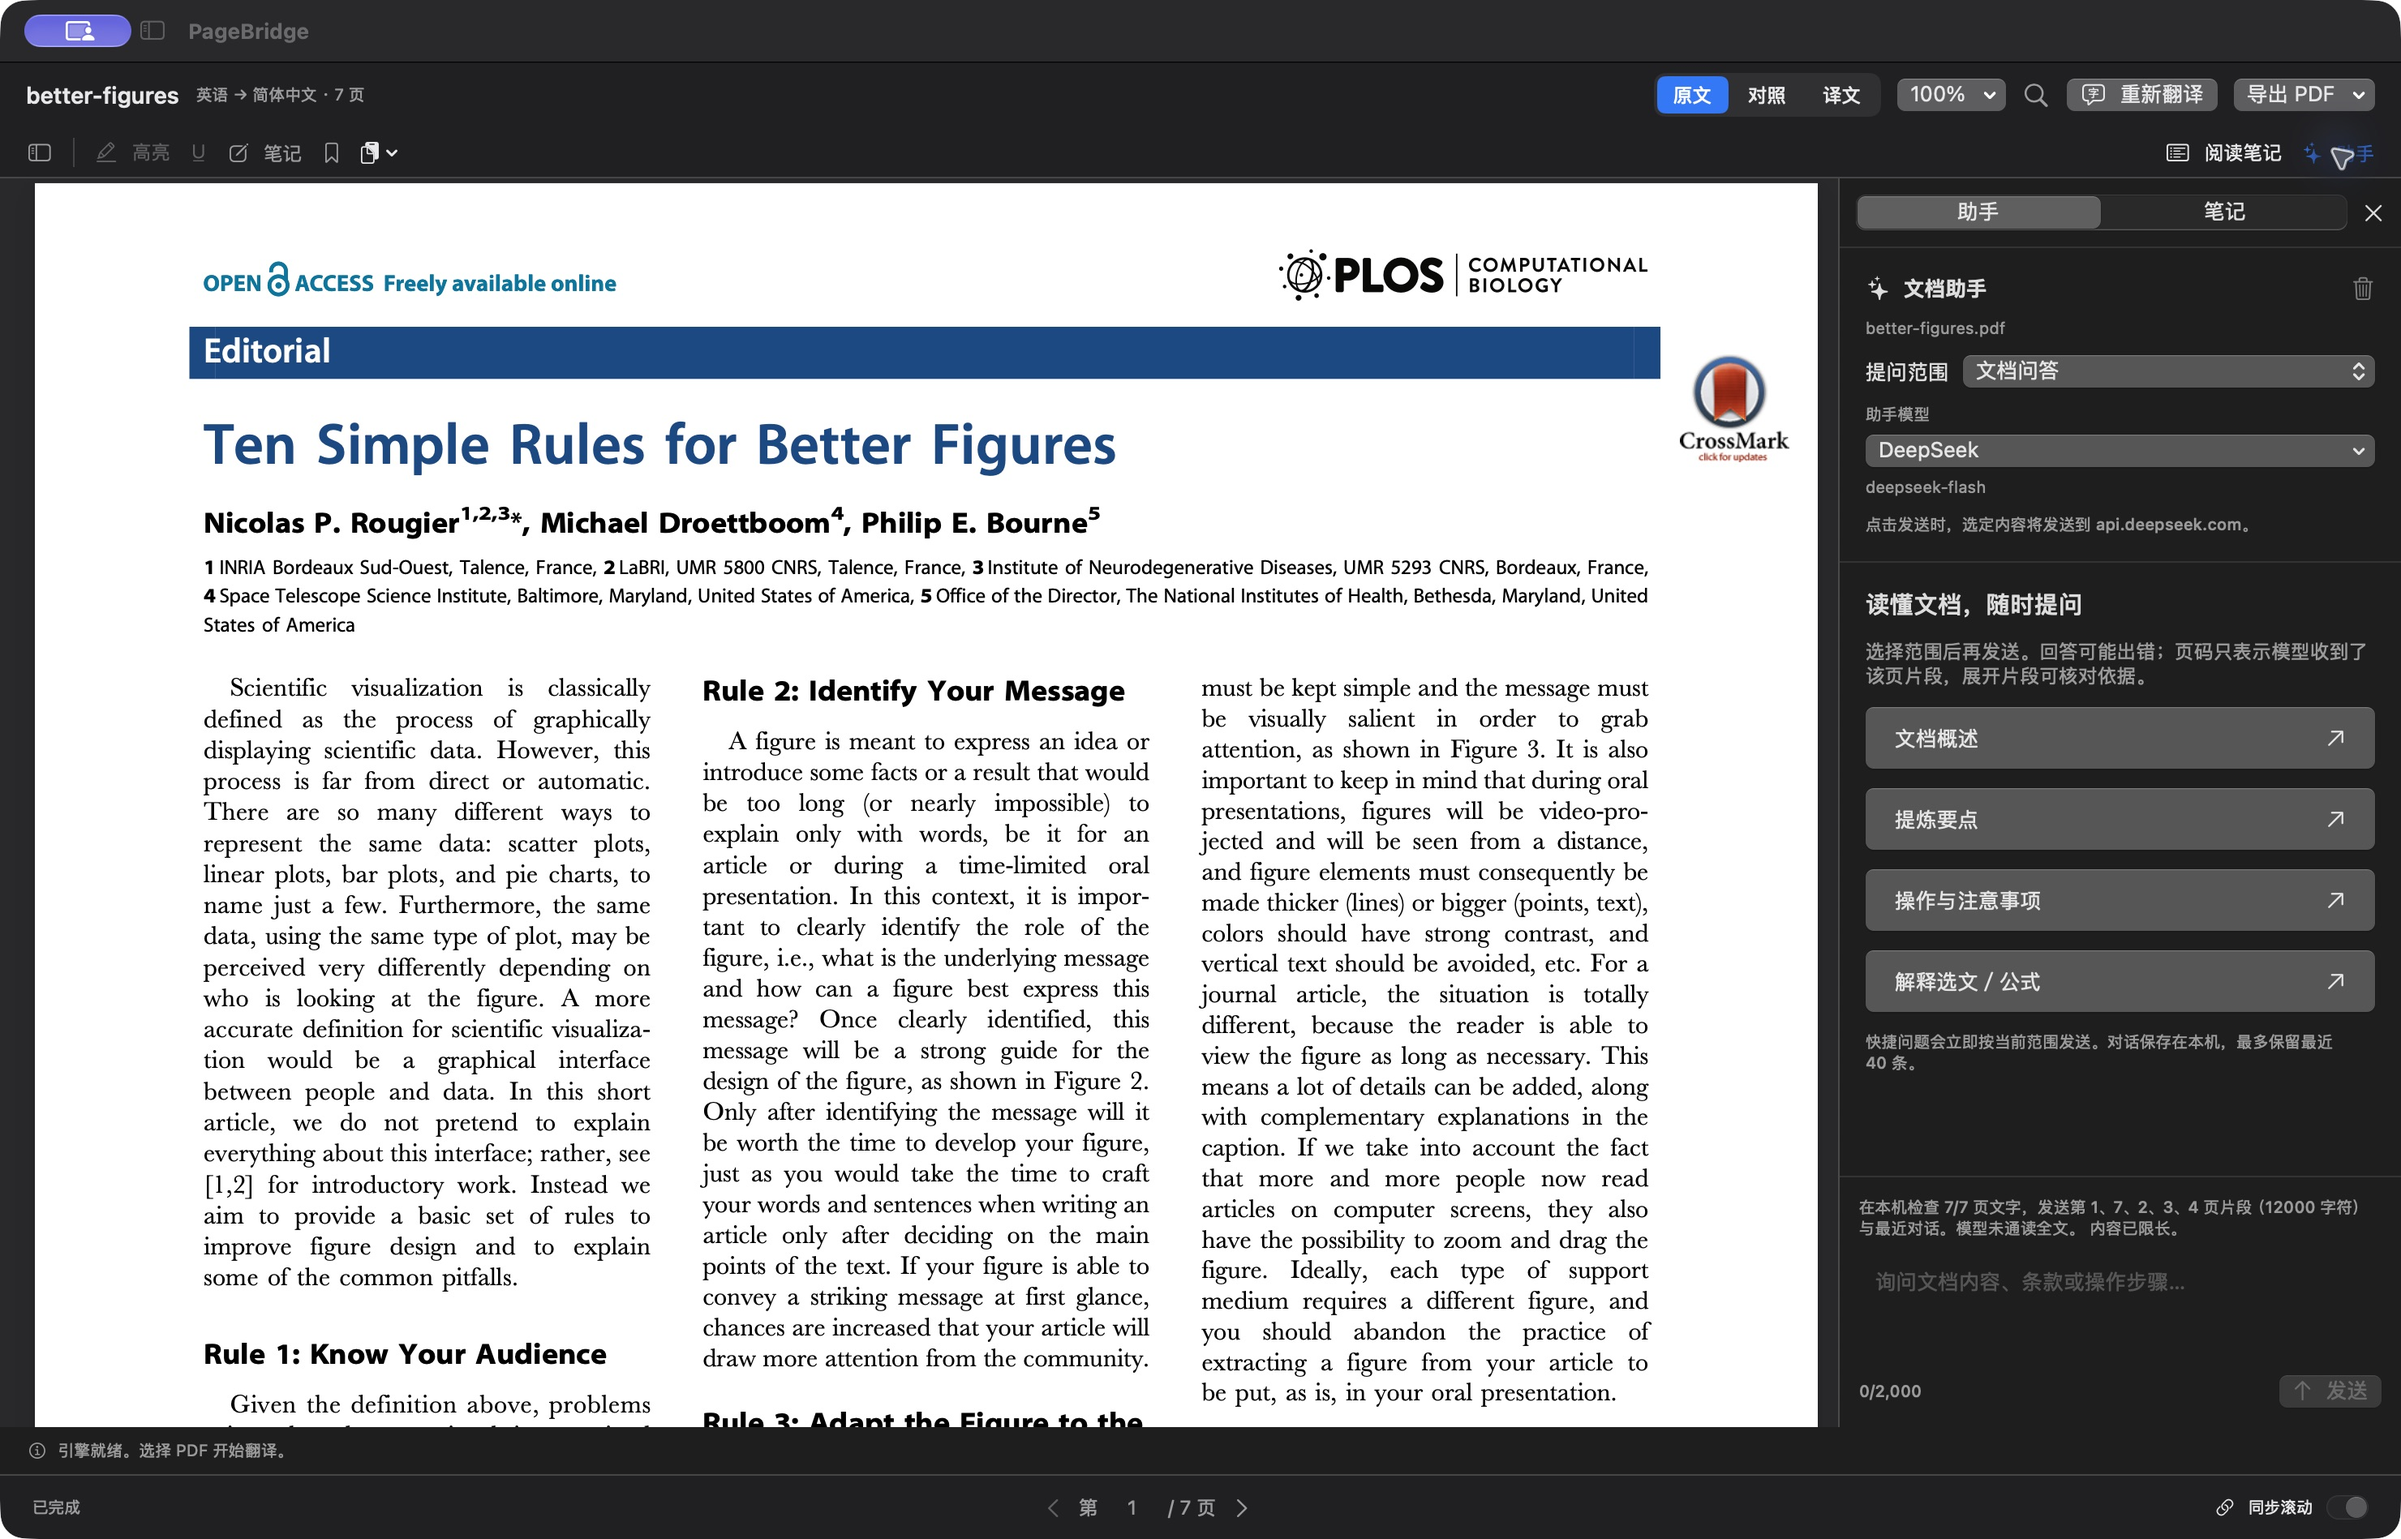
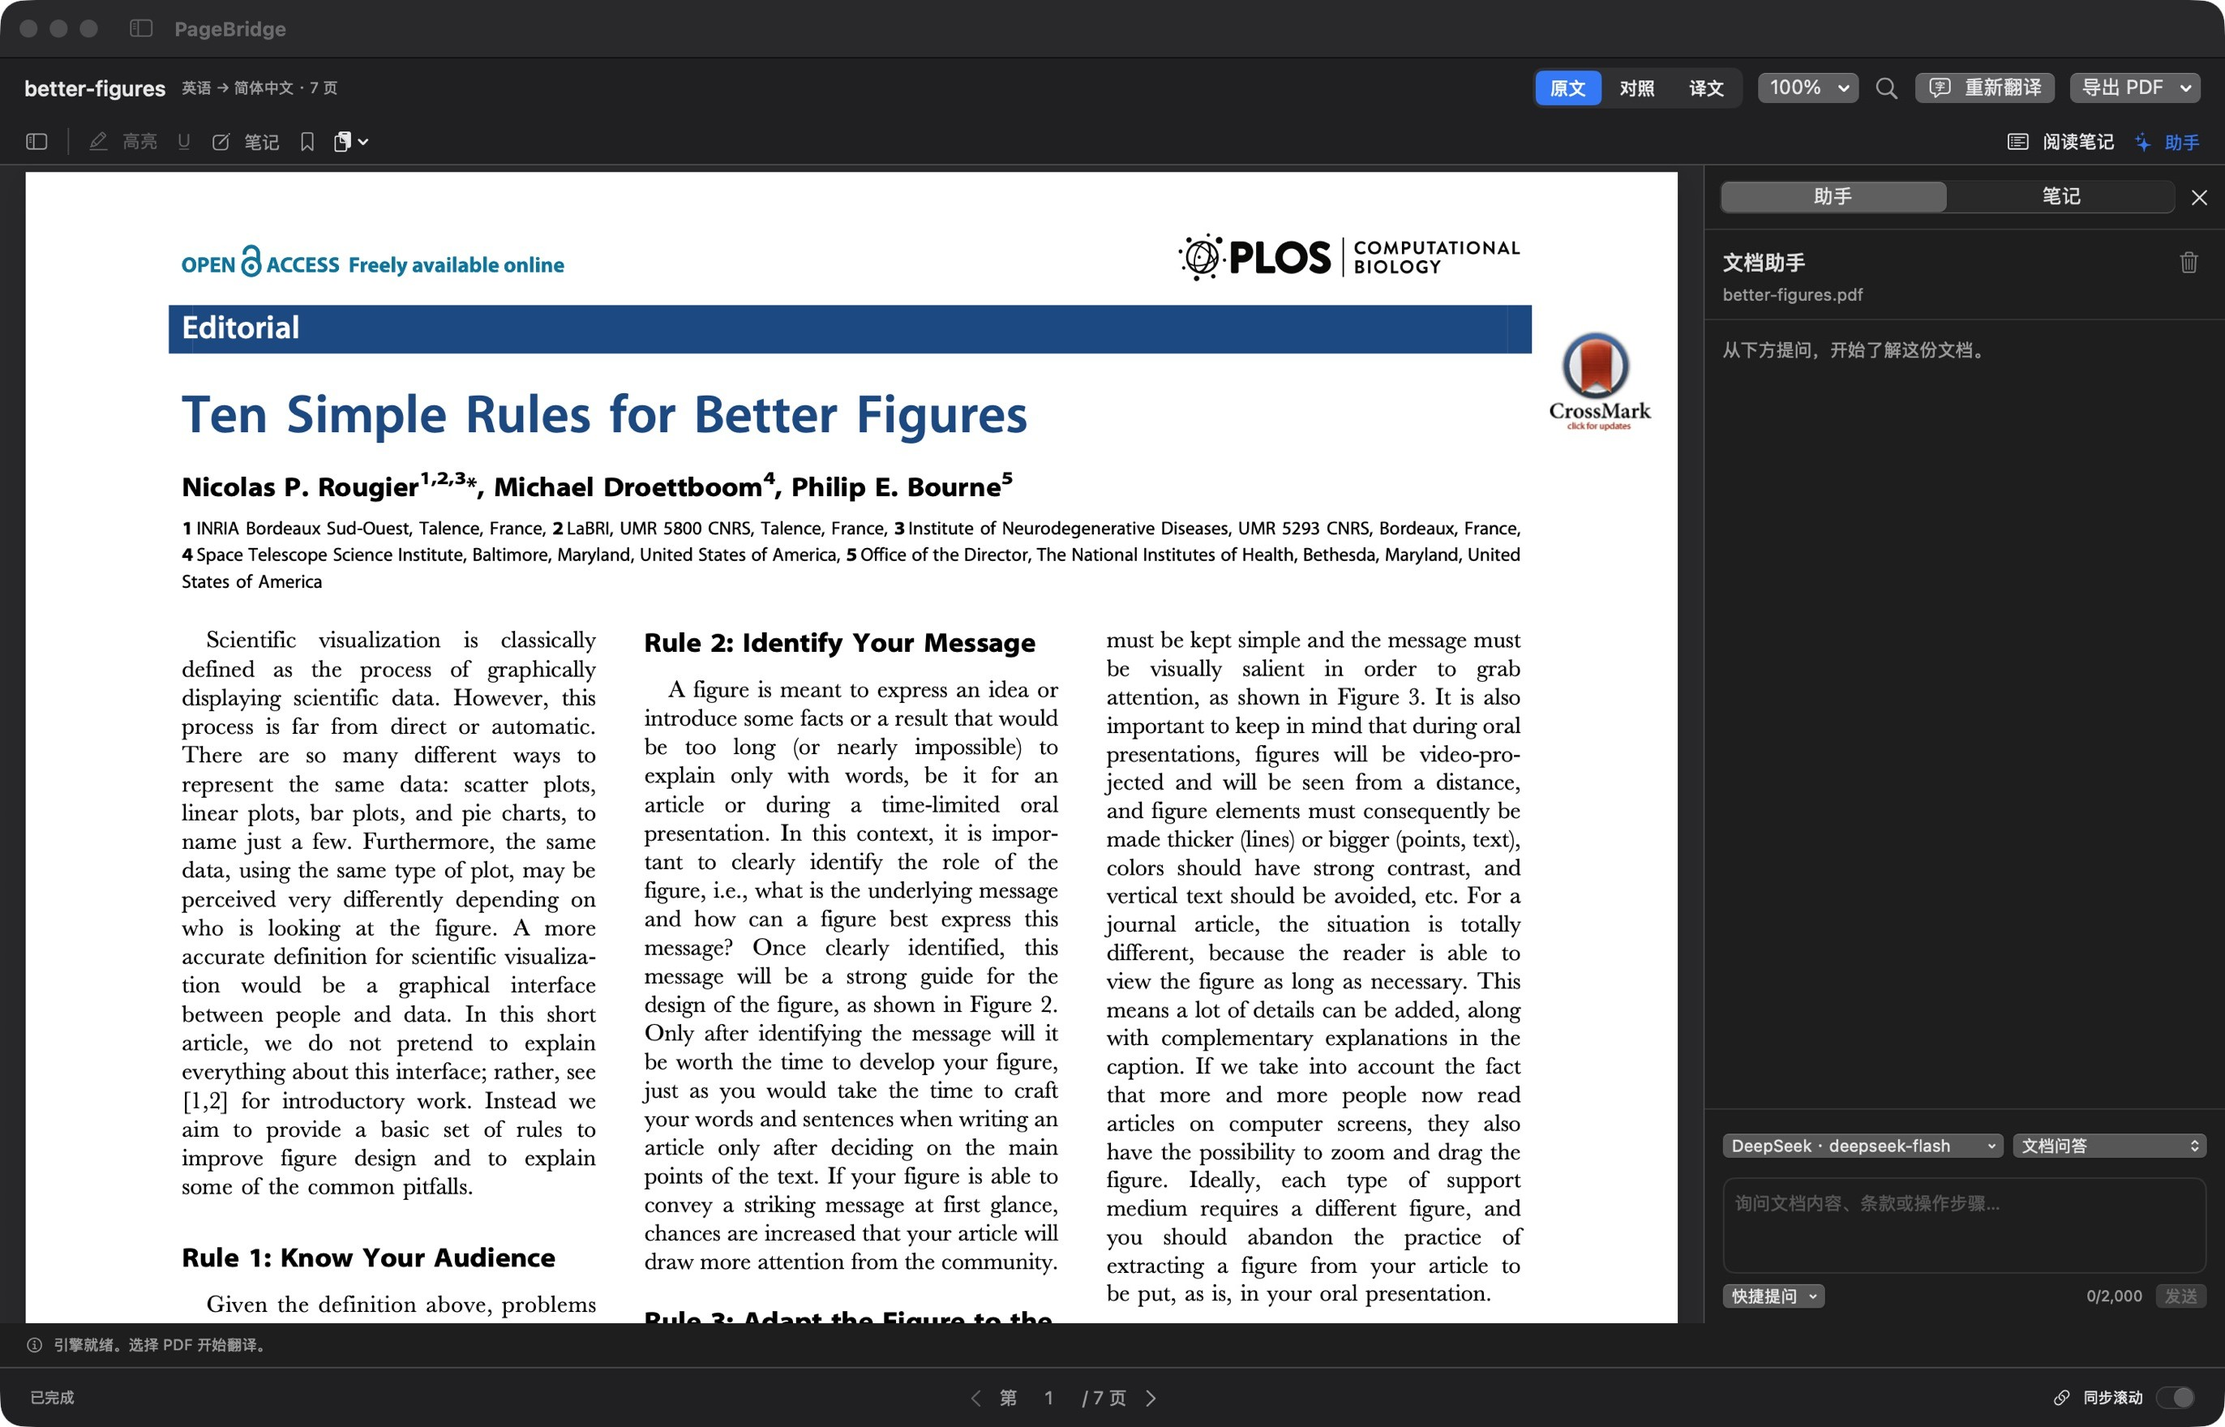
Update README screenshots to Mac 0.4.0
- Retake the side-by-side reader, assistant and literature search
  screenshots from the Mac 0.4.0 / build 13 native window, with the
  library sidebar hidden and the search shot cropped to its panel.
- Show the 0.4.0 assistant layout in the README preview.
- Describe the new capture in docs/images/README.md.

diff --git a/docs/images/README.md b/docs/images/README.md
@@ -1,9 +1,9 @@
 # 界面截图
 
-本目录现有 `reader.jpg`、`literature-search.jpg`、`assistant.jpg` 均由 **Mac PageBridge 0.3.0 / build 12** 的实际原生窗口生成，展示对照阅读、文献搜索和文档助手。侧栏个人文件列表和服务密钥未出现在截图中；助手展示空对话界面，没有为截图发送在线模型请求。
+本目录现有 `reader.jpg`、`assistant.jpg`、`literature-search.jpg` 均由 **Mac PageBridge 0.4.0 / build 13** 的实际原生窗口生成，展示对照阅读、文档助手和文献搜索。截图时收起了文档库侧栏，文献搜索图只截取搜索面板，个人文件列表和服务密钥未出现在截图中。助手展示空对话界面，可见已配置的模型名称和提问范围，没有为截图发送在线模型请求。
 
 阅读示例为 Nicolas P. Rougier、Michael Droettboom 和 Philip E. Bourne 的 *Ten Simple Rules for Better Figures*，PLOS Computational Biology (2014)，DOI：[10.1371/journal.pcbi.1003833](https://doi.org/10.1371/journal.pcbi.1003833)。原文按 Creative Commons Attribution 许可发布，见[完整示例归属与来源](../../demos/README.md)。右侧中文为机器翻译示例，不是原作者提供的译本。
 
-搜索结果来自 OpenAlex；全文来源设置与服务状态可能随时间变化。截图用于展示实际产品操作，不构成全文可用性或翻译质量保证。
+搜索结果来自 OpenAlex（2026-10-26 检索）；全文来源设置与服务状态可能随时间变化。截图用于展示实际产品操作，不构成全文可用性或翻译质量保证。
 
-这些是历史产品截图，不是 Windows 界面，也不表示当前 v0.4.0 助手仍使用旧布局。README 保留阅读和搜索图；v0.4.0 两端助手已改为顶部文件名、中间对话、底部模型／范围与输入操作。此次未把含 QA 合成对话的验证截图作为真实模型回答或宣传素材发布。
+这些是 Mac 界面，不是 Windows 界面；Windows 功能与已知差异见 [Windows 说明](../WINDOWS.md)。截图未包含模型回答，也未使用含 QA 合成对话的验证截图。

diff --git a/README.md b/README.md
@@ -37,9 +37,11 @@ Mac 包目前采用 ad-hoc 签名，**尚无 Developer ID 签名或 Apple 公证
 
 ![原文与译文对照](docs/images/reader.jpg)
 
+![文档助手](docs/images/assistant.jpg)
+
 ![在线文献搜索](docs/images/literature-search.jpg)
 
-以上是 Mac 0.3.0 的真实界面截图，展示公开文献；v0.4.0 的助手布局已调整。作者、许可及截图范围见[图片说明](docs/images/README.md)。
+以上是 Mac 0.4.0 的真实界面截图，展示公开文献。作者、许可及截图范围见[图片说明](docs/images/README.md)。
 
 ## 快速开始
 
